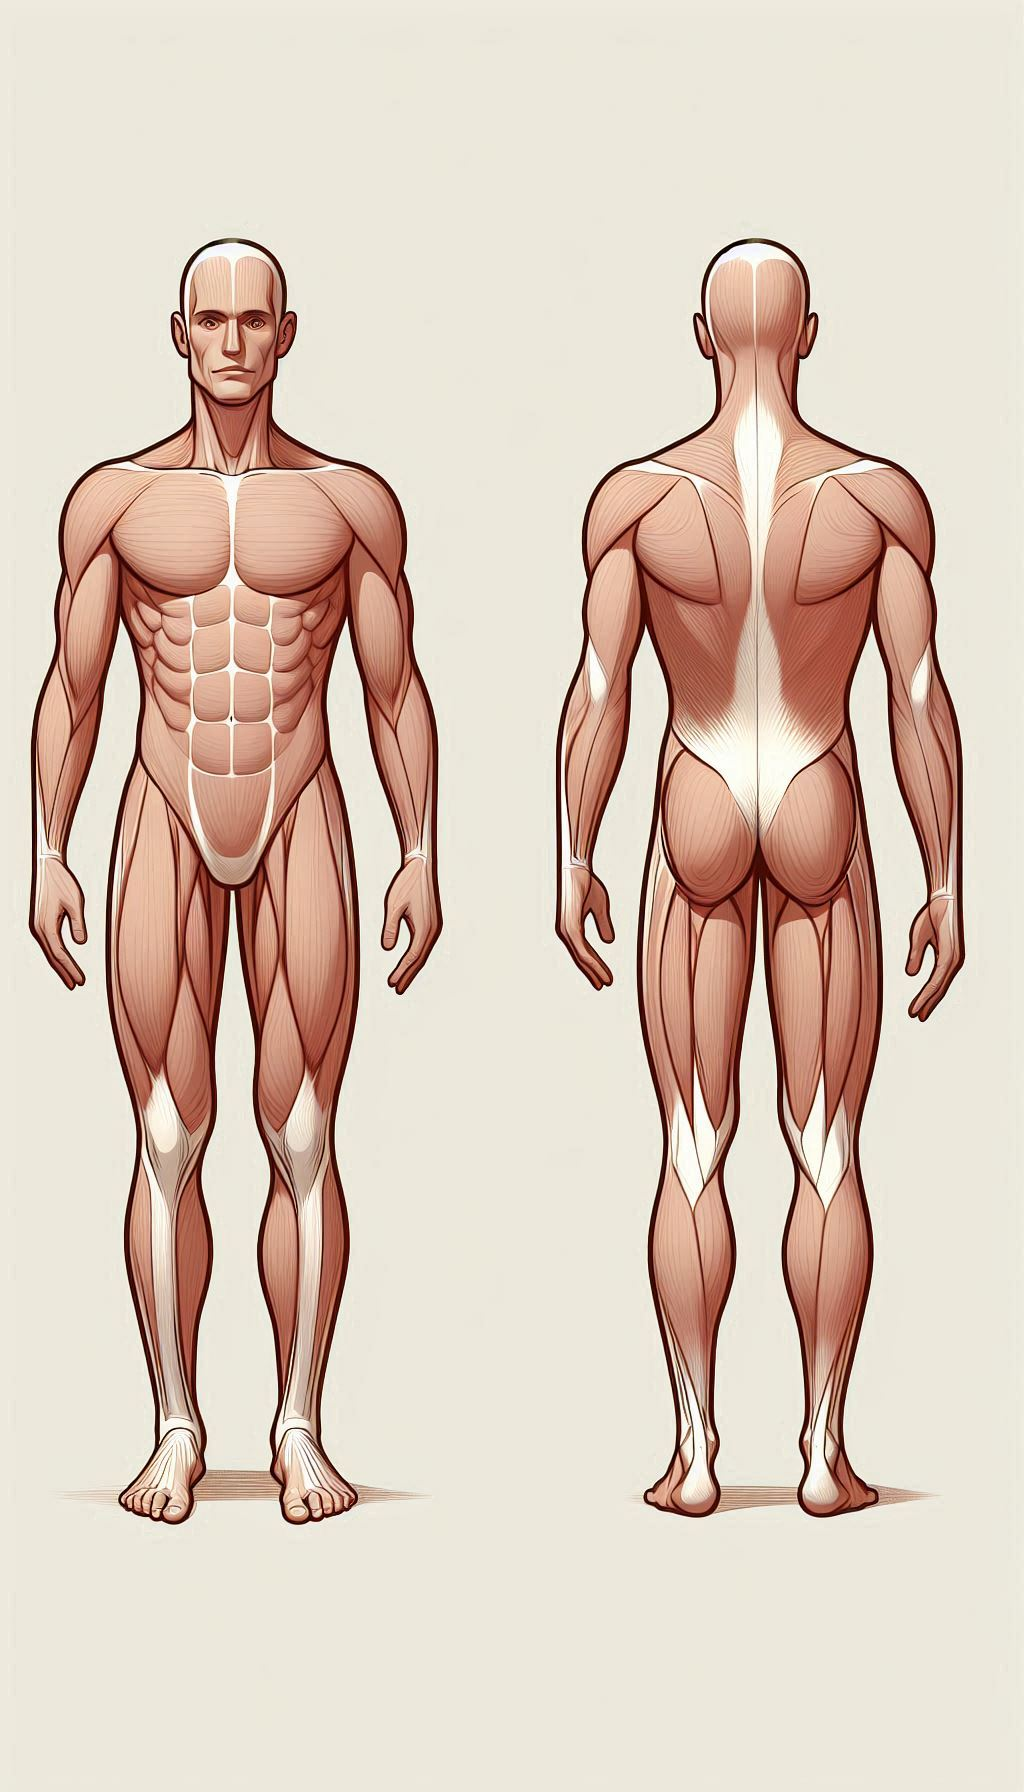
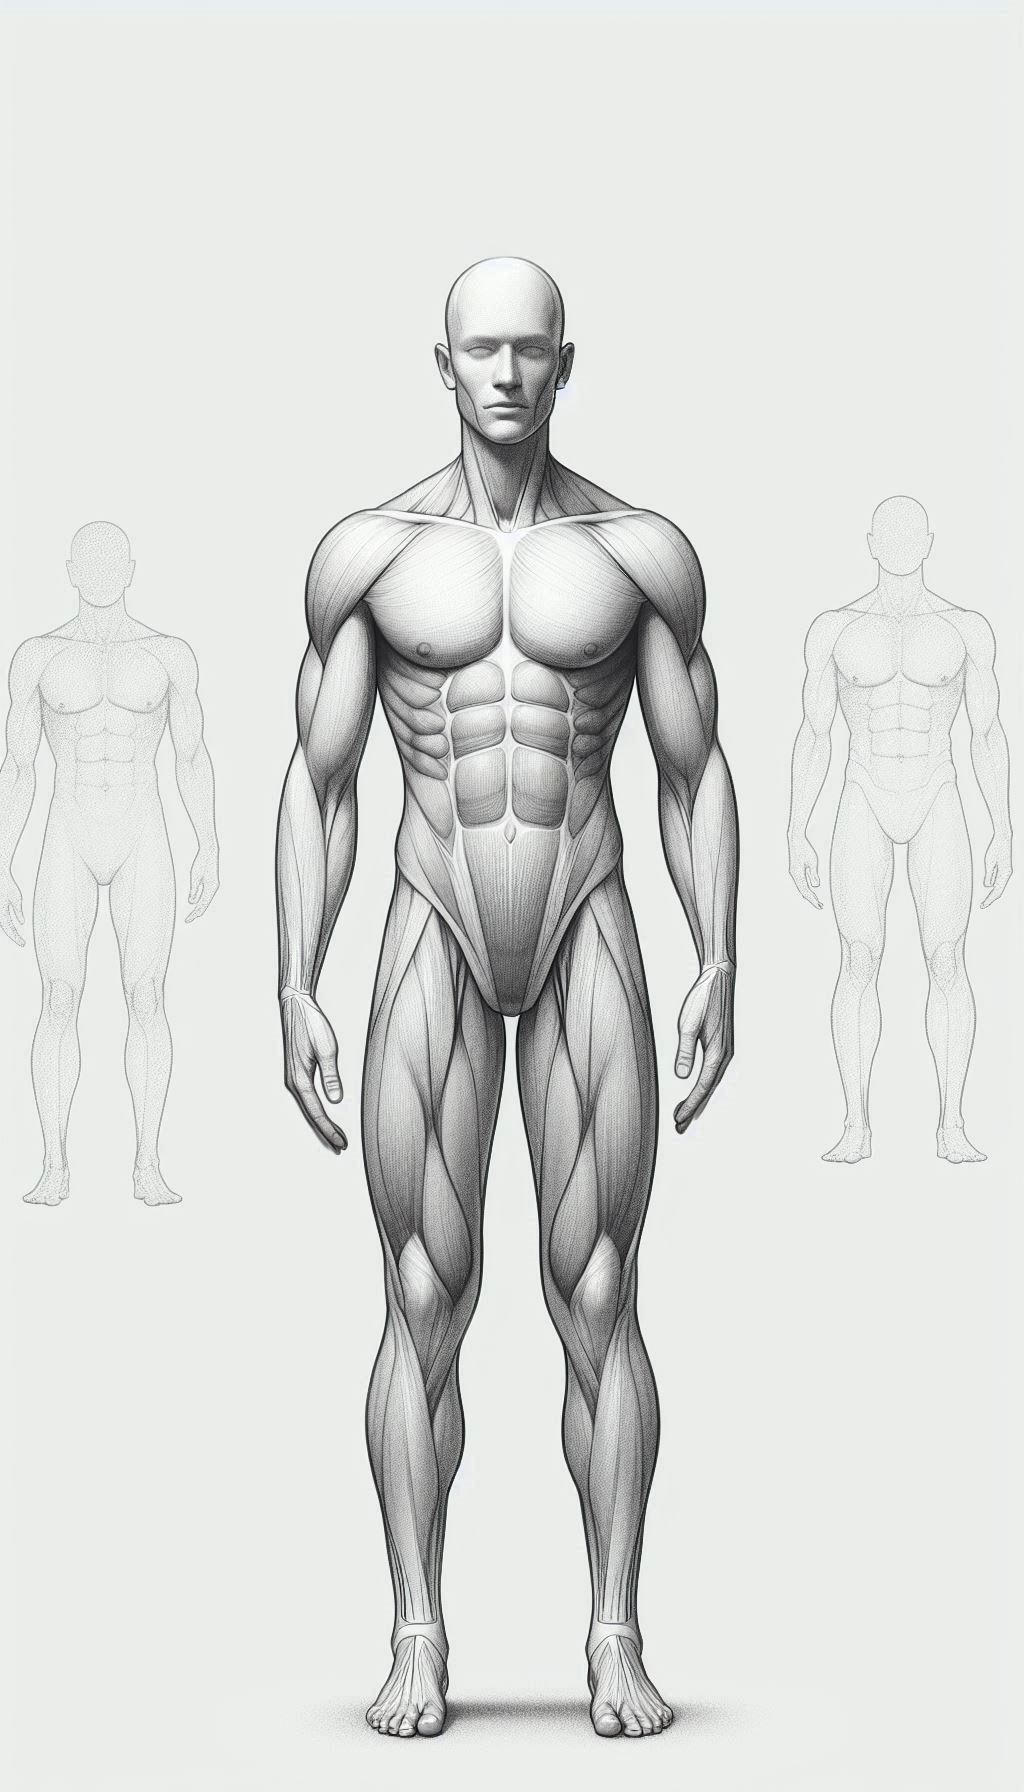
two side images added

diff --git a/src/app/components/BodyMap.tsx b/src/app/components/BodyMap.tsx
@@ -1,23 +1,43 @@
 "use client";
 
-import { Box } from "@mui/material";
+import { Box, Button } from "@mui/material";
 import Image from "next/image";
+import { useState } from "react";
+import ExerciseModal from "./ExerciseModal";
+import { muscleExercises } from "../data/exercises";
 
 const muscles = [
-  { name: "Chest", top: "18%", left: "26%" },
-  { name: "Chest", top: "18%", left: "14%" },
-  { name: "Biceps", top: "28%", left: "35%" },
-  { name: "Biceps", top: "28%", left: "6%" },
-  { name: "Shoulders", top: "18%", left: "34%" },
-  { name: "Shoulders", top: "18%", left: "6%" },
-  { name: "Abs", top: "35%", left: "20%" },
-  { name: "Quads", top: "55%", left: "28%" },
-  { name: "Quads", top: "55%", left: "13%" },
+  { name: "Chest", top: "25%", left: "40%", side: "front" },
+  { name: "Chest", top: "25%", left: "52%", side: "front" },
+  { name: "Biceps", top: "32%", left: "31%", side: "front" },
+  { name: "Biceps", top: "32%", left: "62%", side: "front" },
+  { name: "Shoulders", top: "20%", left: "61%", side: "front" },
+  { name: "Shoulders", top: "20%", left: "31%", side: "front" },
+  { name: "Abs", top: "35%", left: "47%", side: "front" },
+  { name: "Quads", top: "65%", left: "40%", side: "front" },
+  { name: "Quads", top: "65%", left: "55%", side: "front" },
 
   // Add more muscles here with adjusted top/left % based on the image
 ];
 
 export default function BodyMap() {
+  const [selectedMuscle, setSelectedMuscle] = useState<string | null>(null);
+  const [modalOpen, setModalOpen] = useState(false);
+  const [currentSide, setCurrentSide] = useState<"front" | "back">("front");
+
+  const handleMuscleClick = (name: string) => {
+    setSelectedMuscle(name);
+    setModalOpen(true);
+  };
+
+  const handleClose = () => {
+    setModalOpen(false);
+    setSelectedMuscle(null);
+  };
+
+  const imageSrc =
+    currentSide === "front" ? "/bodypicture.jpeg" : "/bodypicture-back.jpeg";
+
   return (
     <Box
       sx={{
@@ -27,6 +47,13 @@ export default function BodyMap() {
         maxWidth: "100%",
       }}
     >
+      <Button
+        onClick={() =>
+          setCurrentSide(currentSide === "front" ? "back" : "front")
+        }
+      >
+        Switch to {currentSide === "front" ? "back" : "front"} view
+      </Button>
       <Box
         sx={{
           borderRadius: 4,
@@ -41,38 +68,41 @@ export default function BodyMap() {
           }}
         >
           <Image
-            src="/bodypicture.jpeg"
+            src={imageSrc}
             alt="Body Map"
             layout="fill"
             objectFit="cover"
           />
 
-          {muscles.map((muscle, index) => (
-            <Box
-              key={index}
-              sx={{
-                position: "absolute",
-                top: muscle.top,
-                left: muscle.left,
-                width: 50,
-                height: 50,
-                backgroundColor: "rgba(255, 0, 0, 0.3)",
-                borderRadius: "50%",
-                cursor: "pointer",
-                display: "flex",
-                justifyContent: "center",
-                alignItems: "center",
-                color: "#fff",
-                fontSize: "12px",
-                textAlign: "center",
-              }}
-              onClick={() => alert(`${muscle.name} clicked`)}
-            >
-              {muscle.name}
-            </Box>
-          ))}
+          {muscles
+            .filter((m) => m.side === currentSide)
+            .map((muscle, i) => (
+              <Box
+                key={i}
+                sx={{
+                  position: "absolute",
+                  top: muscle.top,
+                  left: muscle.left,
+                  width: 50,
+                  height: 50,
+                  backgroundColor: "rgba(255, 0, 0, 0.3)",
+                  borderRadius: "50%",
+                  cursor: "pointer",
+                  "&:hover": {
+                    backgroundColor: "rgba(255, 0, 0, 0.5)",
+                  },
+                }}
+                onClick={() => handleMuscleClick(muscle.name)}
+              />
+            ))}
         </Box>
       </Box>
+      <ExerciseModal
+        open={modalOpen}
+        onClose={handleClose}
+        muscle={selectedMuscle}
+        exercises={selectedMuscle ? muscleExercises[selectedMuscle] || [] : []}
+      />
     </Box>
   );
 }

diff --git a/src/app/components/ExerciseModal.tsx b/src/app/components/ExerciseModal.tsx
@@ -1,0 +1,45 @@
+"use client";
+
+import { Box, Modal, Typography, List, ListItem } from "@mui/material";
+
+interface ExerciseModalProps {
+  open: boolean;
+  onClose: () => void;
+  muscle: string | null;
+  exercises: string[];
+}
+
+export default function ExerciseModal({
+  open,
+  onClose,
+  muscle,
+  exercises,
+}: ExerciseModalProps) {
+  return (
+    <Modal open={open} onClose={onClose}>
+      <Box
+        sx={{
+          position: "absolute",
+          top: "50%",
+          left: "50%",
+          transform: "translate(-50%, -50%)",
+          bgcolor: "background.paper",
+          color: "black",
+          boxShadow: 24,
+          p: 4,
+          borderRadius: 2,
+          width: 300,
+        }}
+      >
+        <Typography variant="h6" gutterBottom>
+          {muscle} Exercises
+        </Typography>
+        <List>
+          {exercises.map((ex, i) => (
+            <ListItem key={i}>{ex}</ListItem>
+          ))}
+        </List>
+      </Box>
+    </Modal>
+  );
+}

diff --git a/src/app/data/exercises.ts b/src/app/data/exercises.ts
@@ -1,0 +1,10 @@
+// /data/exercises.ts
+
+export const muscleExercises: Record<string, string[]> = {
+  Chest: ["Bench Press", "Incline Dumbbell Press", "Push-ups"],
+  Biceps: ["Barbell Curl", "Hammer Curl", "Chin-ups"],
+  Abs: ["Crunches", "Leg Raises", "Plank"],
+  Quads: ["Squats", "Lunges", "Leg Press"],
+  Shoulders: ["Shoulder Press", "Lateral Raise", "Front Raise"],
+  // Add more as needed
+};
